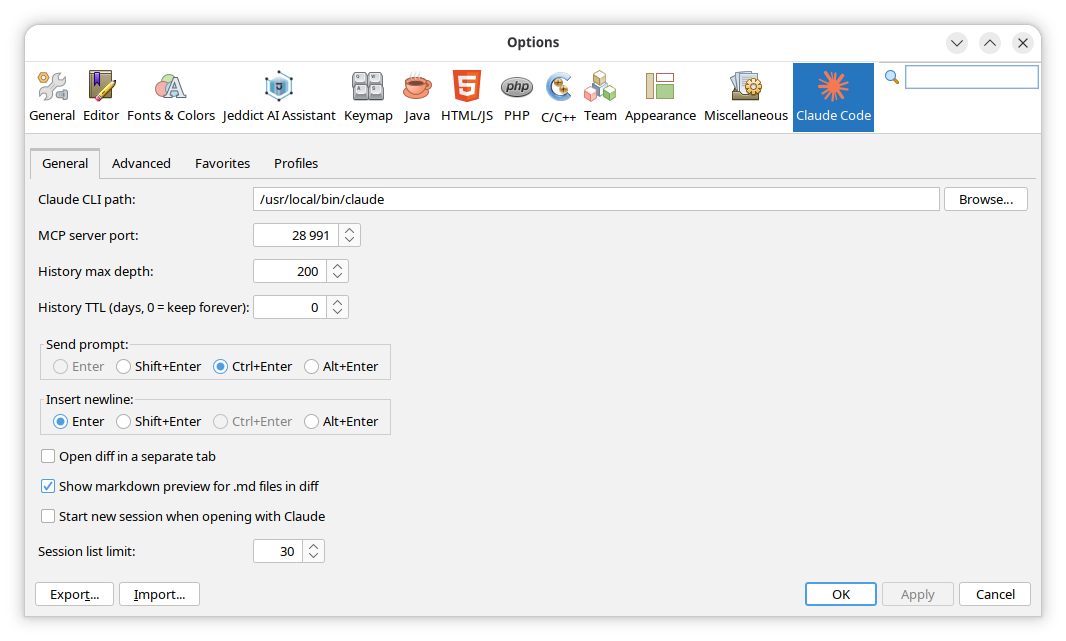
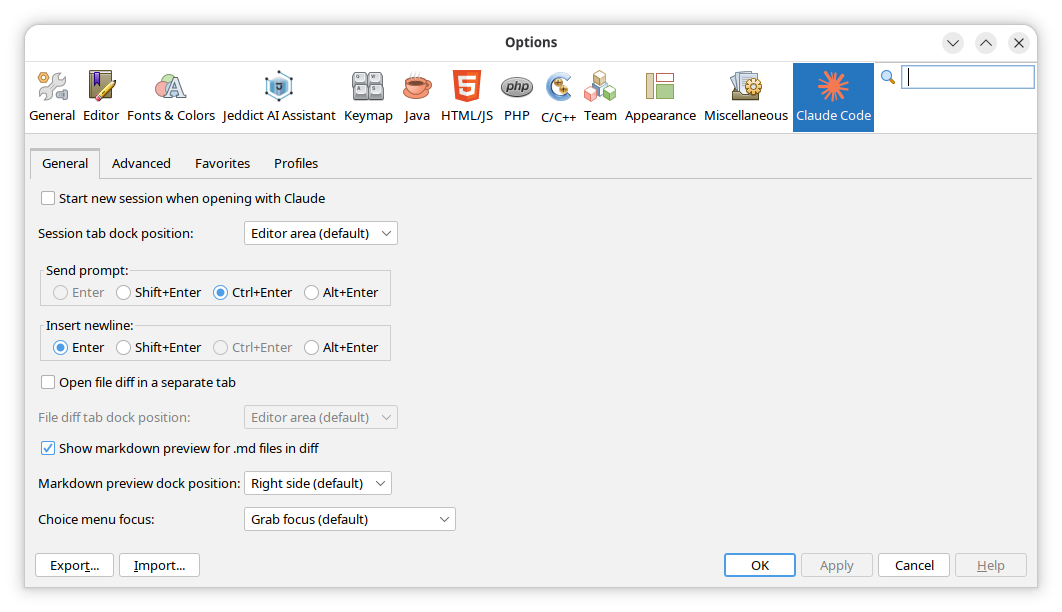
Reorganized General and Advanced settings tabs
Moved technical settings (hang timeout, MCP port, Enable MCP integration,
session list limit, debug mode) to the Advanced tab. Fixed MCP description
label wrapping by stretching it to full tab width.

diff --git a/src/main/java/io/github/nbclaudecodegui/settings/ClaudeCodeOptionsPanel.java b/src/main/java/io/github/nbclaudecodegui/settings/ClaudeCodeOptionsPanel.java
@@ -137,45 +137,28 @@ public final class ClaudeCodeOptionsPanel extends JPanel {
         JPanel form = new JPanel(new GridBagLayout());
         int row = 0;
 
-        // --- executable path ---
-        form.add(new JLabel("Claude CLI path:"), gbc(0, row, false));
-        executablePathField = new JTextField(30);
-        executablePathField.setToolTipText("Leave empty to detect 'claude' from PATH");
-        form.add(executablePathField, gbcFill(1, row));
-        JButton browseButton = new JButton("Browse\u2026");
-        browseButton.addActionListener(e -> {
-            JFileChooser chooser = new JFileChooser();
-            chooser.setFileSelectionMode(JFileChooser.FILES_ONLY);
-            if (chooser.showOpenDialog(this) == JFileChooser.APPROVE_OPTION) {
-                executablePathField.setText(
-                        chooser.getSelectedFile().getAbsolutePath());
-            }
-        });
-        form.add(browseButton, gbc(2, row, false));
+        // --- context-menu session mode ---
+        startNewSessionCheck = new javax.swing.JCheckBox("Start new session when opening with Claude");
+        GridBagConstraints cmGbc = new GridBagConstraints();
+        cmGbc.gridx = 0; cmGbc.gridy = row;
+        cmGbc.gridwidth = 3;
+        cmGbc.anchor = GridBagConstraints.WEST;
+        cmGbc.insets = new Insets(8, 8, 4, 8);
+        form.add(startNewSessionCheck, cmGbc);
         row++;
 
-        // --- MCP port ---
-        form.add(new JLabel("MCP server port:"), gbc(0, row, false));
-        mcpPortSpinner = new JSpinner(new SpinnerNumberModel(
-                ClaudeCodePreferences.DEFAULT_MCP_PORT, 1024, 65535, 1));
-        mcpPortSpinner.setToolTipText("Port for the NetBeans MCP SSE server (restart required)");
-        form.add(mcpPortSpinner, gbc(1, row, false));
-        row++;
-
-        // --- history max depth ---
-        form.add(new JLabel("History max depth:"), gbc(0, row, false));
-        historyMaxDepthSpinner = new JSpinner(new SpinnerNumberModel(
-                ClaudeCodePreferences.DEFAULT_HISTORY_MAX_DEPTH, 1, 2000, 10));
-        historyMaxDepthSpinner.setToolTipText("Maximum number of history entries to keep per project");
-        form.add(historyMaxDepthSpinner, gbc(1, row, false));
-        row++;
-
-        // --- history TTL ---
-        form.add(new JLabel("History TTL (days, 0 = keep forever):"), gbc(0, row, false));
-        historyTtlDaysSpinner = new JSpinner(new SpinnerNumberModel(
-                ClaudeCodePreferences.DEFAULT_HISTORY_TTL_DAYS, 0, 3650, 1));
-        historyTtlDaysSpinner.setToolTipText("Delete history entries older than this many days (0 = keep forever)");
-        form.add(historyTtlDaysSpinner, gbc(1, row, false));
+        // --- session tab dock position ---
+        form.add(new JLabel("Session tab dock position:"), gbc(0, row, false));
+        dockModeCombo = new javax.swing.JComboBox<>(
+                DockMode.labels(ClaudeCodePreferences.DEFAULT_SESSION_DOCK_MODE));
+        dockModeCombo.setToolTipText("Where to dock the Claude Code session tab when opening it");
+        form.add(dockModeCombo, gbc(1, row, false));
+        GridBagConstraints hSpacer = new GridBagConstraints();
+        hSpacer.gridx = 2; hSpacer.gridy = row;
+        hSpacer.weightx = 1.0;
+        hSpacer.fill = GridBagConstraints.HORIZONTAL;
+        hSpacer.insets = new Insets(0, 0, 0, 8);
+        form.add(new JLabel(""), hSpacer);
         row++;
 
         // --- send key ---
@@ -204,32 +187,6 @@ public final class ClaudeCodeOptionsPanel extends JPanel {
             sendRadios.get(val).addActionListener(e -> syncExclusion(val, true));
             newlineRadios.get(val).addActionListener(e -> syncExclusion(val, false));
         }
-
-        // --- context-menu session mode ---
-        startNewSessionCheck = new javax.swing.JCheckBox("Start new session when opening with Claude");
-        GridBagConstraints cmGbc = new GridBagConstraints();
-        cmGbc.gridx = 0; cmGbc.gridy = row;
-        cmGbc.gridwidth = 3;
-        cmGbc.anchor = GridBagConstraints.WEST;
-        cmGbc.insets = new Insets(4, 8, 4, 8);
-        form.add(startNewSessionCheck, cmGbc);
-        row++;
-
-        // --- session list limit ---
-        form.add(new JLabel("Session list limit:"), gbc(0, row, false));
-        sessionListLimitSpinner = new JSpinner(new SpinnerNumberModel(
-                ClaudeCodePreferences.DEFAULT_SESSION_LIST_LIMIT, 1, 500, 5));
-        sessionListLimitSpinner.setToolTipText("Maximum number of sessions shown in the session list");
-        form.add(sessionListLimitSpinner, gbc(1, row, false));
-        row++;
-
-        // --- session tab dock position ---
-        form.add(new JLabel("Session tab dock position:"), gbc(0, row, false));
-        dockModeCombo = new javax.swing.JComboBox<>(
-                DockMode.labels(ClaudeCodePreferences.DEFAULT_SESSION_DOCK_MODE));
-        dockModeCombo.setToolTipText("Where to dock the Claude Code session tab when opening it");
-        form.add(dockModeCombo, gbc(1, row, false));
-        row++;
 
         // --- diff in session ---
         diffInSessionCheck = new javax.swing.JCheckBox("Open file diff in a separate tab");
@@ -298,14 +255,21 @@ public final class ClaudeCodeOptionsPanel extends JPanel {
         JPanel form = new JPanel(new GridBagLayout());
         int row = 0;
 
-        // --- debug mode ---
-        debugCheckBox = new javax.swing.JCheckBox("Debug mode (log all claude I/O to NetBeans log and output area)");
-        GridBagConstraints dbgGbc = new GridBagConstraints();
-        dbgGbc.gridx = 0; dbgGbc.gridy = row;
-        dbgGbc.gridwidth = 2;
-        dbgGbc.anchor = GridBagConstraints.WEST;
-        dbgGbc.insets = new Insets(8, 8, 4, 8);
-        form.add(debugCheckBox, dbgGbc);
+        // --- executable path ---
+        form.add(new JLabel("Claude CLI path:"), gbc(0, row, false));
+        executablePathField = new JTextField(30);
+        executablePathField.setToolTipText("Leave empty to detect 'claude' from PATH");
+        form.add(executablePathField, gbcFill(1, row));
+        JButton browseButton = new JButton("Browse\u2026");
+        browseButton.addActionListener(e -> {
+            JFileChooser chooser = new JFileChooser();
+            chooser.setFileSelectionMode(JFileChooser.FILES_ONLY);
+            if (chooser.showOpenDialog(this) == JFileChooser.APPROVE_OPTION) {
+                executablePathField.setText(
+                        chooser.getSelectedFile().getAbsolutePath());
+            }
+        });
+        form.add(browseButton, gbc(2, row, false));
         row++;
 
         // --- hang timeout ---
@@ -316,6 +280,14 @@ public final class ClaudeCodeOptionsPanel extends JPanel {
         GridBagConstraints hangSpinnerGbc = gbc(1, row, false);
         hangSpinnerGbc.weightx = 1.0;
         form.add(hangTimeoutSpinner, hangSpinnerGbc);
+        row++;
+
+        // --- MCP port ---
+        form.add(new JLabel("MCP server port:"), gbc(0, row, false));
+        mcpPortSpinner = new JSpinner(new SpinnerNumberModel(
+                ClaudeCodePreferences.DEFAULT_MCP_PORT, 1024, 65535, 1));
+        mcpPortSpinner.setToolTipText("Port for the NetBeans MCP SSE server (restart required)");
+        form.add(mcpPortSpinner, gbc(1, row, false));
         row++;
 
         // --- MCP enabled ---
@@ -331,16 +303,52 @@ public final class ClaudeCodeOptionsPanel extends JPanel {
         JLabel mcpDesc = new JLabel("<html><small>When disabled, the --mcp-config flag is not passed to claude. Hooks are always configured.</small></html>");
         GridBagConstraints mcpDescGbc = new GridBagConstraints();
         mcpDescGbc.gridx = 0; mcpDescGbc.gridy = row;
-        mcpDescGbc.gridwidth = 2;
+        mcpDescGbc.gridwidth = 3;
+        mcpDescGbc.fill = GridBagConstraints.HORIZONTAL;
+        mcpDescGbc.weightx = 1.0;
         mcpDescGbc.anchor = GridBagConstraints.WEST;
         mcpDescGbc.insets = new Insets(0, 28, 4, 8);
         form.add(mcpDesc, mcpDescGbc);
         row++;
 
+        // --- history max depth ---
+        form.add(new JLabel("History max depth:"), gbc(0, row, false));
+        historyMaxDepthSpinner = new JSpinner(new SpinnerNumberModel(
+                ClaudeCodePreferences.DEFAULT_HISTORY_MAX_DEPTH, 1, 2000, 10));
+        historyMaxDepthSpinner.setToolTipText("Maximum number of history entries to keep per project");
+        form.add(historyMaxDepthSpinner, gbc(1, row, false));
+        row++;
+
+        // --- history TTL ---
+        form.add(new JLabel("History TTL (days, 0 = keep forever):"), gbc(0, row, false));
+        historyTtlDaysSpinner = new JSpinner(new SpinnerNumberModel(
+                ClaudeCodePreferences.DEFAULT_HISTORY_TTL_DAYS, 0, 3650, 1));
+        historyTtlDaysSpinner.setToolTipText("Delete history entries older than this many days (0 = keep forever)");
+        form.add(historyTtlDaysSpinner, gbc(1, row, false));
+        row++;
+
+        // --- session list limit ---
+        form.add(new JLabel("Session list limit:"), gbc(0, row, false));
+        sessionListLimitSpinner = new JSpinner(new SpinnerNumberModel(
+                ClaudeCodePreferences.DEFAULT_SESSION_LIST_LIMIT, 1, 500, 5));
+        sessionListLimitSpinner.setToolTipText("Maximum number of sessions shown in the session list");
+        form.add(sessionListLimitSpinner, gbc(1, row, false));
+        row++;
+
+        // --- debug mode ---
+        debugCheckBox = new javax.swing.JCheckBox("Debug mode (log all claude I/O to NetBeans log and output area)");
+        GridBagConstraints dbgGbc = new GridBagConstraints();
+        dbgGbc.gridx = 0; dbgGbc.gridy = row;
+        dbgGbc.gridwidth = 2;
+        dbgGbc.anchor = GridBagConstraints.WEST;
+        dbgGbc.insets = new Insets(8, 8, 4, 8);
+        form.add(debugCheckBox, dbgGbc);
+        row++;
+
         // spacer
         GridBagConstraints spacer = new GridBagConstraints();
         spacer.gridx = 0; spacer.gridy = row;
-        spacer.gridwidth = 2; spacer.weighty = 1.0;
+        spacer.gridwidth = 3; spacer.weighty = 1.0;
         spacer.fill = GridBagConstraints.VERTICAL;
         form.add(new JPanel(), spacer);
 

diff --git a/docs/user-manual.md b/docs/user-manual.md
@@ -337,15 +337,10 @@ Open **Tools → Options → Claude Code** in NetBeans.
 
 | Setting | Default | Description |
 |---------|---------|-------------|
-| Claude CLI path | (empty) | Absolute path to the `claude` executable. Leave empty to use the system `PATH`. |
-| MCP server port | 28991 | Port for the internal MCP SSE server. Change only if 28991 conflicts. Requires IDE restart. |
-| History max depth | 200 | Maximum number of history entries kept per working directory. |
-| History TTL (days) | 0 | Number of days after which history entries expire. 0 = keep forever. |
+| Start new session when opening with Claude | Off (Continue last) | Checked → always start a **New session** when opening with the project context menu or when NetBeans restores a closed session tab on restart. Unchecked → **Continue last**. |
+| Session tab dock position | Editor area | Where the Claude Code session tab is docked when first opened. Choices: Editor area, Right side, Left side top, Left side bottom, Bottom dock. |
 | Send prompt key | Ctrl+Enter | Key combination that sends the prompt from the input area. |
 | Insert newline key | Enter | Key combination that inserts a newline in the input area. The send and newline keys are configured independently but cannot be set to the same value. |
-| Start new session when opening with Claude | Off (Continue last) | Checked → always start a **New session** when opening with the project context menu or when NetBeans restores a closed session tab on restart. Unchecked → **Continue last**. |
-| Session list limit | 30 | Maximum number of past sessions shown in the session selector table. |
-| Session tab dock position | Editor area | Where the Claude Code session tab is docked when first opened. Choices: Editor area, Right side, Left side top, Left side bottom, Bottom dock. |
 | Open file diff in a separate tab | Off | Opens the diff panel in a new IDE tab instead of embedding it in the session tab. |
 | File diff tab dock position | Editor area | Where the File Diff tab is docked when opened as a separate tab. Enabled only when "Open file diff in a separate tab" is checked. |
 | Show markdown preview for .md files in diff | On | Shows a rendered markdown preview alongside the raw diff for `.md` files. |
@@ -358,9 +353,14 @@ Open **Tools → Options → Claude Code** in NetBeans.
 
 | Setting | Default | Description |
 |---------|---------|-------------|
-| Debug mode | Off | Enables verbose logging of all Claude I/O to the NetBeans log file and the Output window. |
+| Claude CLI path | (empty) | Absolute path to the `claude` executable. Leave empty to use the system `PATH`. |
 | Hang timeout (seconds) | 60 | Kill the process if no PTY output is received within this many seconds after launch. Set to 0 to disable. |
+| MCP server port | 28991 | Port for the internal MCP SSE server. Change only if 28991 conflicts. Requires IDE restart. |
 | Enable MCP integration | On | When unchecked, the `--mcp-config` flag is not passed to `claude`. Hooks (PreToolUse) are always configured regardless of this setting. Disable only if MCP causes issues. |
+| History max depth | 200 | Maximum number of history entries kept per working directory. |
+| History TTL (days) | 0 | Number of days after which history entries expire. 0 = keep forever. |
+| Session list limit | 30 | Maximum number of past sessions shown in the session selector table. |
+| Debug mode | Off | Enables verbose logging of all Claude I/O to the NetBeans log file and the Output window. |
 
 ### Favorites tab
 
@@ -671,7 +671,7 @@ As you move the cursor or change the selection in any open editor, the plugin au
 
 If Claude says a tool is unavailable (e.g. "I don't have access to `getWorkspaceFolders`"):
 
-1. Check that no other application is using the MCP server port (**Tools → Options → Claude Code → General → MCP server port**, default: 28991). Change the port if needed and restart the IDE.
+1. Check that no other application is using the MCP server port (**Tools → Options → Claude Code → Advanced → MCP server port**, default: 28991). Change the port if needed and restart the IDE.
 2. Enable **Debug mode** (**Tools → Options → Claude Code → Advanced**) and check the log file (`~/.netbeans/<version>/var/log/messages.log`) for `MCP SSE server started on port`.
 
 ---
@@ -691,7 +691,7 @@ For example: `~/.netbeans/28/var/log/messages.log`
 
 | Symptom | Likely cause | Fix |
 |---------|-------------|-----|
-| Session tab does not open | `claude` not found on PATH | Set the full path in **Tools → Options → Claude Code → General → Claude CLI path** |
+| Session tab does not open | `claude` not found on PATH | Set the full path in **Tools → Options → Claude Code → Advanced → Claude CLI path** |
 | Diff panel shows but Accept/Decline have no effect | Claude timed out waiting for the hook response (600 s limit) | Respond to the diff panel within ~9 minutes; if this happens regularly, check for blocking processes |
 | Claude asked a question but the Choice Menu panel did not appear | The plugin did not recognise the prompt format | Switch to the terminal area and answer directly by typing |
 | Choice Menu appeared but Claude did not ask anything (false trigger) | The plugin mis-detected a numbered list as a menu | Dismiss the panel with **Esc** or ignore it; Claude will continue on its own |

diff --git a/CHANGELOG.md b/CHANGELOG.md
@@ -1,3 +1,4 @@
+- Reorganized General and Advanced settings tabs: moved technical settings (hang timeout, MCP port, Enable MCP integration, session list limit, debug mode) to Advanced
 - Fixed prompt area being collapsible to zero height by dragging the divider
 - Fixed terminal scrolling to the beginning and locking when a choice/confirmation menu appears (https://github.com/nbclaudecodegui/NetbeansClaudeCodeGui/issues/22)
 - Added a setting to control whether the choice menu grabs keyboard focus (https://github.com/nbclaudecodegui/NetbeansClaudeCodeGui/issues/20)